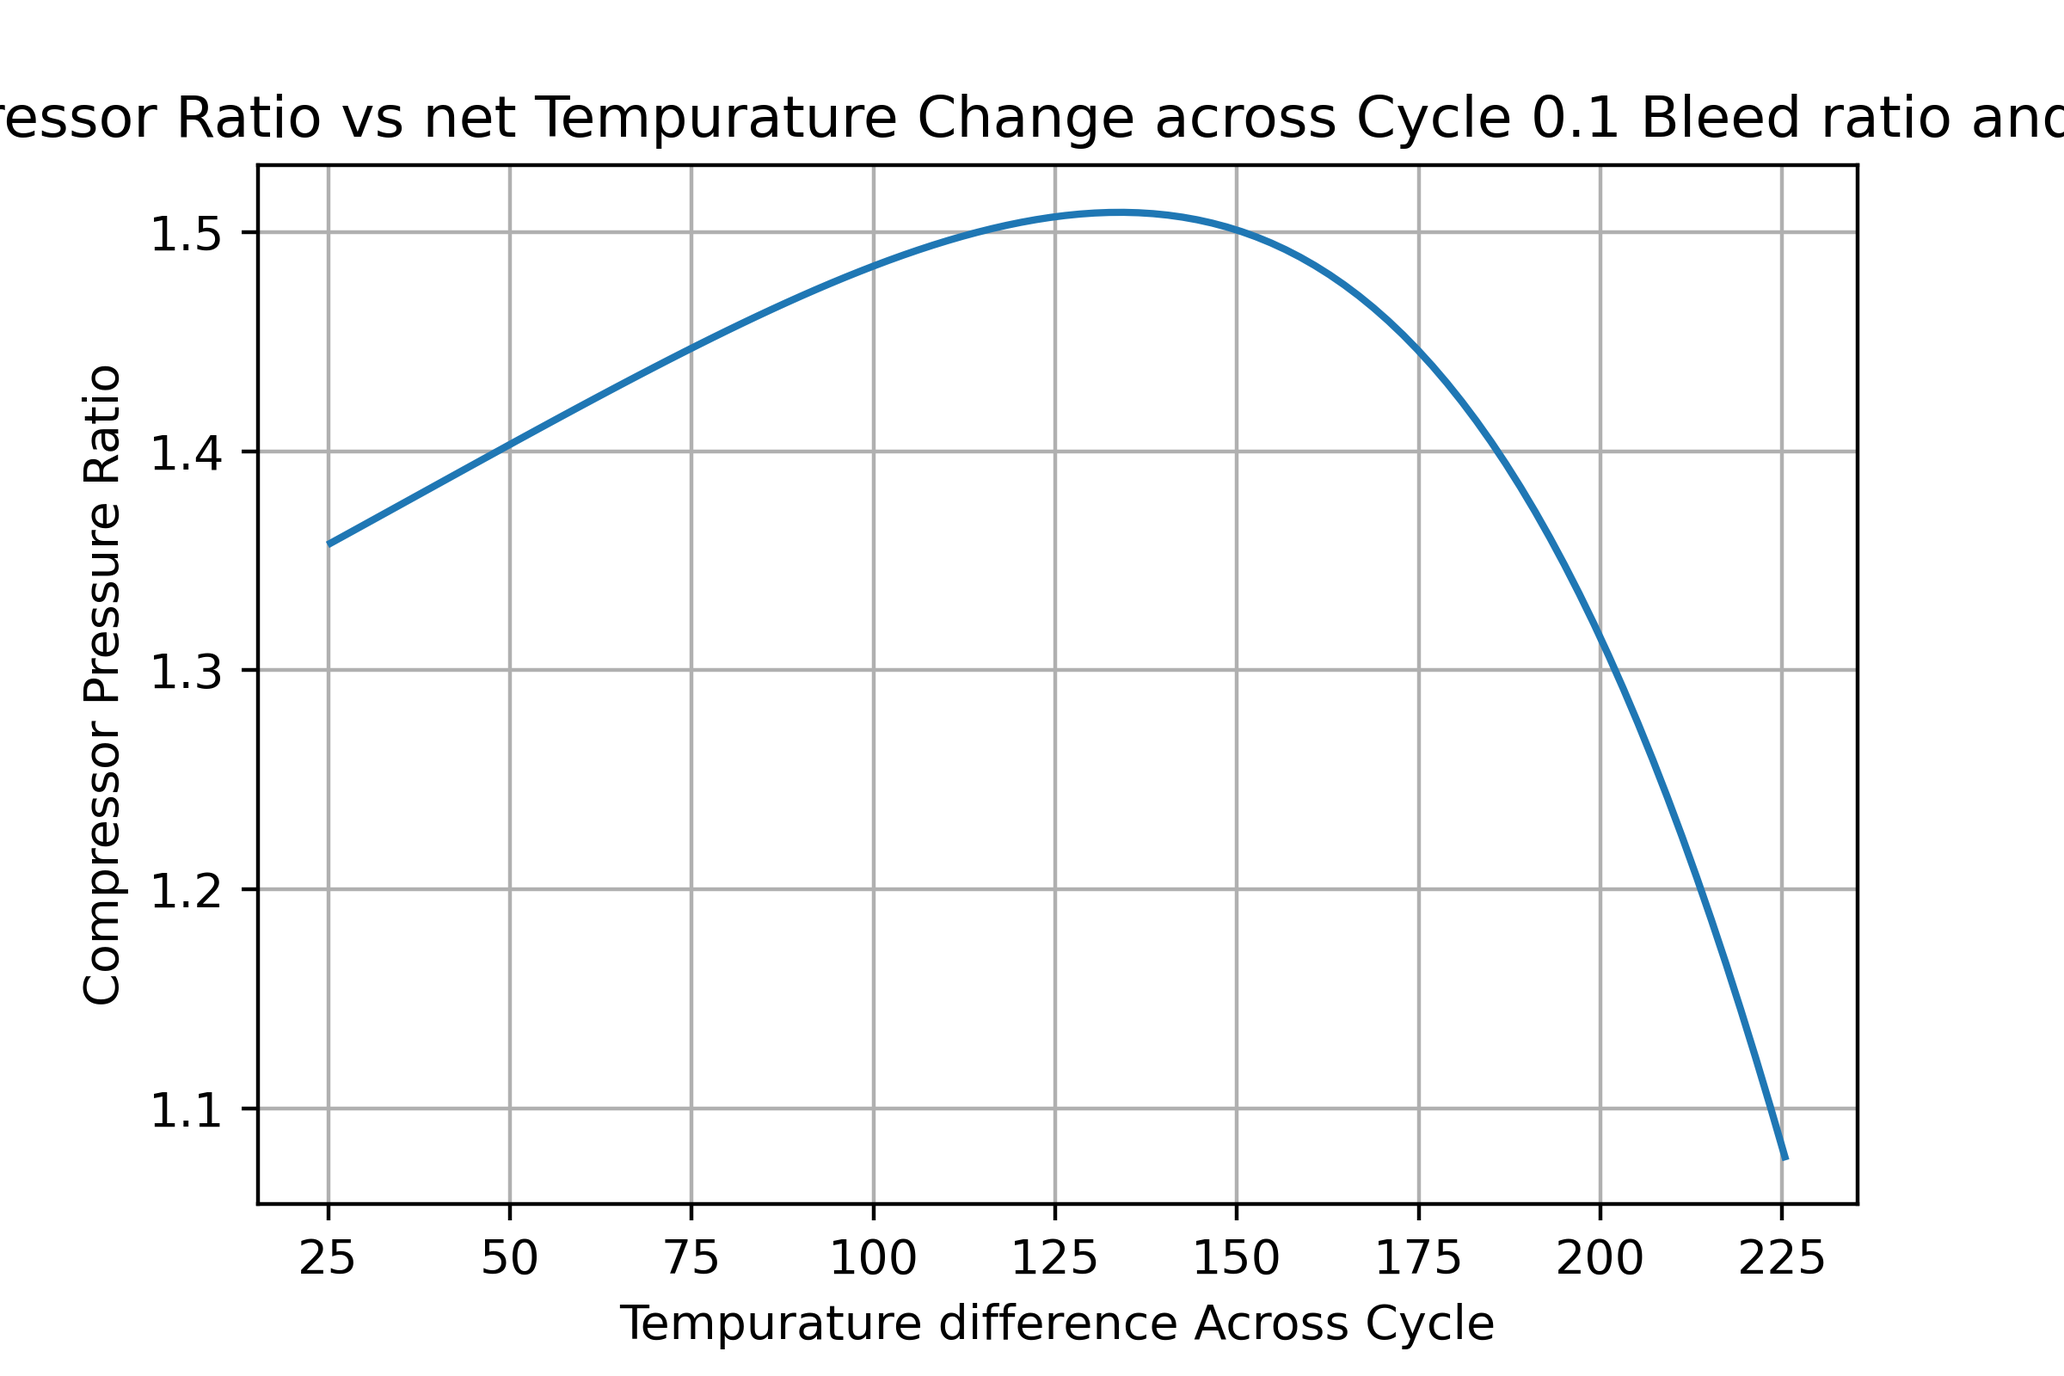
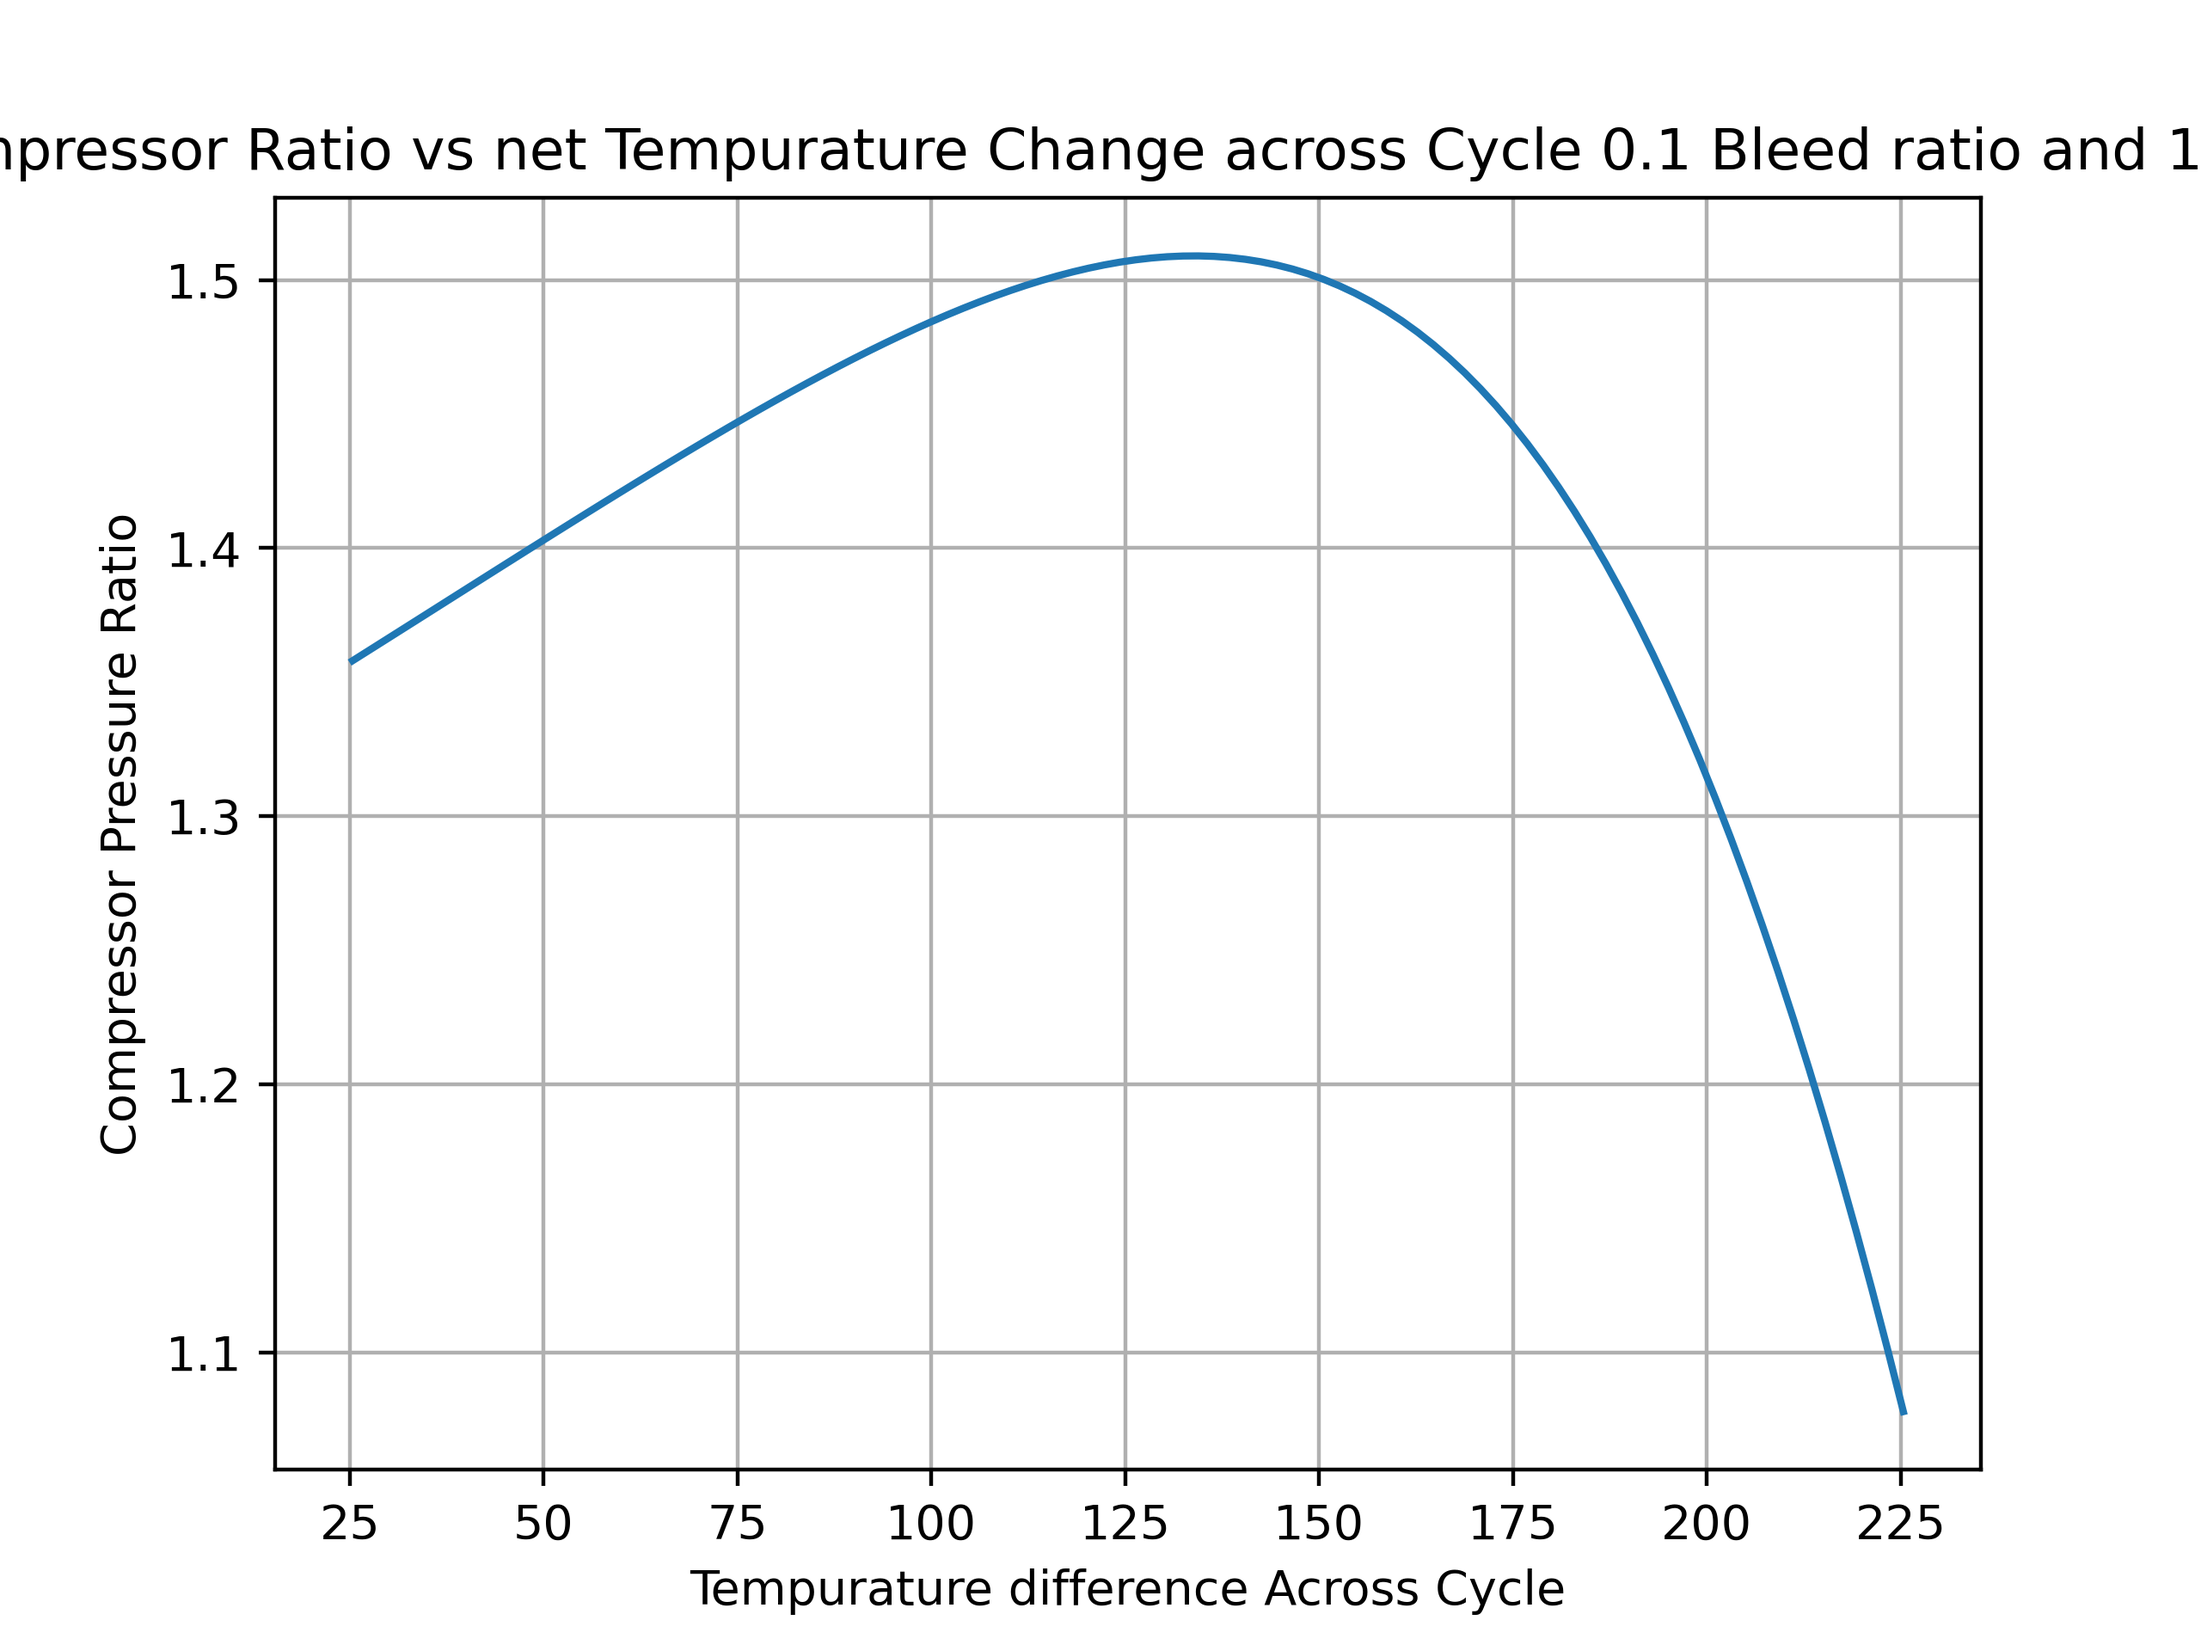
turns out its just a steam engine

diff --git a/H2Cycle.py b/H2Cycle.py
@@ -1,0 +1,84 @@
+# -*- coding: utf-8 -*-
+"""
+Created on Sun Aug 24 22:34:37 2025
+
+@author: Bobke
+"""
+
+import cantera as ct
+
+eta_pump = 0.7  # pump isentropic efficiency
+eta_turbine = 0.8  # turbine isentropic efficiency
+p_max = 200*1e5  # maximum pressure, pa
+mdot = 1 #kg/s
+
+g = 9.81
+
+def pump(fluid, p_final, eta):
+    """Adiabatically pump a fluid to pressure p_final, using
+    a pump with isentropic efficiency eta."""
+    h0 = fluid.h
+    s0 = fluid.s
+    fluid.SP = s0, p_final
+    h1s = fluid.h
+    isentropic_work = h1s - h0
+    actual_work = isentropic_work / eta
+    h1 = h0 + actual_work
+    fluid.HP = h1, p_final
+    return actual_work
+
+
+def expand(fluid, p_final, eta):
+    """Adiabatically expand a fluid to pressure p_final, using
+    a turbine with isentropic efficiency eta."""
+    h0 = fluid.h
+    s0 = fluid.s
+    fluid.SP =s0, p_final
+    h1s = fluid.h
+    isentropic_work = h0 - h1s
+    actual_work = isentropic_work * eta
+    h1 = h0 - actual_work
+    fluid.HP = h1, p_final
+    return actual_work
+
+
+def printState(n, fluid):
+    print('\n***************** State {0} ******************'.format(n))
+    print(fluid.report())
+    
+    
+# Create an object representing water:
+H2 = ct.Solution('h2o2.yaml')
+H2.TPX = 20, 1.5*1e5, 'H2:1'
+
+h1 = H2.h
+p1 = H2.P
+#printState(1, H2)
+
+pump_work = pump(H2, p_max, eta_pump)
+h2 = H2.h
+#printState(2, H2)
+
+
+H2.TP = 1200, p_max
+h3 = H2.h
+heat_added = h3 - h2
+#printState(3, H2)
+
+turbine_work = expand(H2, 20*1e5, eta_turbine)
+#printState(4, H2)
+
+work_ratio = turbine_work/pump_work
+print(f"Pump Work: {pump_work:.0f} J/kg")
+print(f"turbine Work: {turbine_work:.0f} J/kg")
+print(f"Pump-Turbine work ratio: {work_ratio:.2f}")
+
+eff = (turbine_work - pump_work)/heat_added
+print("cycle efficiency: ", eff)
+
+prop_eff = 0.8
+work_out = prop_eff*(turbine_work - pump_work)
+
+SFC = g/work_out
+
+print(SFC)

diff --git a/CanteraCycles.py b/CanteraCycles.py
@@ -1,0 +1,87 @@
+# -*- coding: utf-8 -*-
+"""
+Created on Mon Aug 25 12:35:53 2025
+
+@author: Bobke
+"""
+
+
+import cantera as ct
+
+eta_pump = 0.6  # pump isentropic efficiency
+eta_turbine = 0.8  # turbine isentropic efficiency
+
+
+g = 9.81
+
+def pump(fluid, p_final, eta):
+    """Adiabatically pump a fluid to pressure p_final, using
+    a pump with isentropic efficiency eta."""
+    h0 = fluid.h
+    s0 = fluid.s
+    fluid.SP = s0, p_final
+    h1s = fluid.h
+    isentropic_work = h1s - h0
+    actual_work = isentropic_work / eta
+    h1 = h0 + actual_work
+    fluid.HP = h1, p_final
+    return actual_work
+
+
+def expand(fluid, p_final, eta):
+    """Adiabatically expand a fluid to pressure p_final, using
+    a turbine with isentropic efficiency eta."""
+    h0 = fluid.h
+    s0 = fluid.s
+    fluid.SP =s0, p_final
+    h1s = fluid.h
+    isentropic_work = h0 - h1s
+    actual_work = isentropic_work * eta
+    h1 = h0 - actual_work
+    fluid.HP = h1, p_final
+    return actual_work
+
+
+def printState(n, fluid):
+    print('\n***************** State {0} ******************'.format(n))
+    print(fluid.report())
+    
+    
+# Create an object representing water:
+w = ct.Methane()
+
+
+w.TQ = 130.0, 0.0
+#w.TP = 130.0, 0.01*1e7
+h1 = w.h
+p1 = w.P
+printState(1, w)
+
+p_max = 100*p1
+
+pump_work = pump(w, p_max, eta_pump)
+h2 = w.h
+printState(2, w)
+
+w.TP = 800, p_max
+h3 = w.h
+heat_added = h3 - h2
+printState(3, w)
+
+turbine_work = expand(w, p1, eta_turbine)
+printState(4, w)
+
+
+work_ratio = turbine_work/pump_work
+eff = (turbine_work - pump_work)/heat_added
+print('efficiency = ', eff)
+
+print(f"Pump Work: {pump_work:.0f} J/kg")
+print(f"turbine Work: {turbine_work:.0f} J/kg")
+print(f"Pump-Turbine work ratio: {work_ratio:.2f}")
+
+prop_eff = 0.8
+work_out = prop_eff*(turbine_work - pump_work)
+
+SFC = g/(work_out)
+print(SFC)

diff --git a/Cycle_Analysis_10km.py b/Cycle_Analysis_10km.py
@@ -112,7 +112,7 @@ pmin = 150000 #Pa, needs to be around 150 kPa or more to ensure condensation at 
 cooling_pressure_drop = 600000 #Pressure drop over fuel cooling channels
 heating_pressure_drop = 600000 #Pressure drop over fuel heating channels
 cp_air_coeff = cp_polyfit(100, 4, path_air) #air cp is ~constant with pressure changes
-bleed_ratio = 0.2
+bleed_ratio = 0.1
 OF = 150
 
 "Calculating Turbine Work"

diff --git a/Cycle_Analysis_2.py b/Cycle_Analysis_2.py
@@ -145,12 +145,8 @@ for Tmax in Tmax_list:
     P_compressor = compressor_p_ratio*p_ambiant
     comp_pr.append(compressor_p_ratio)
     
-
-
-
-  
+    
 os.chdir(path_graphs)
-
 plt.figure(1)
 plt.title("Compressor Ratio vs Turbine Pressure ratio at "+str(bleed_ratio)+" Bleed ratio and "+str(OF)+" OF")
 plt.plot(turb_pr, comp_pr, label = "Compressor Pressure Ratio")
